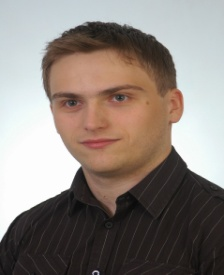
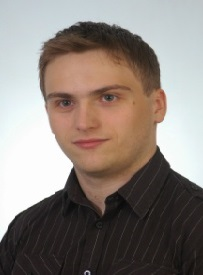
commit
poprawki

diff --git a/index.html b/index.html
@@ -185,6 +185,7 @@
                                 </div>
                                 <div class="col-sm-10 col-lg-10">
                                     <p><strong>POSNET POLSKA S.A.</strong></p>
+                                    <p><strong>Specjalista ds. wdrożeń / Analityk IT</strong></p>
                                     <p>Obowiązki:</p>
                                     <ul>
                                         <li>Projektowanie rozwiązań</li>
@@ -199,7 +200,7 @@
                         </div>
                     </div>
 
-                    <div class="row"></div>
+                    <div class="row">
                     <div class="col-sm-12 col-lg-12 ">
                         <div class="linia"></div>
                         <div class="row">
@@ -219,6 +220,7 @@
                                 </ul>
                             </div>
                         </div>
+                    </div>
                     </div>
 
                     <div class="row">

diff --git a/css/style.css b/css/style.css
@@ -62,7 +62,7 @@ div.linia{
 
 
 #image{
-    width:200px;
+    width:180px;
     height:200px;
     background-image:url(../img/foto.jpg);
     background-size: cover;
